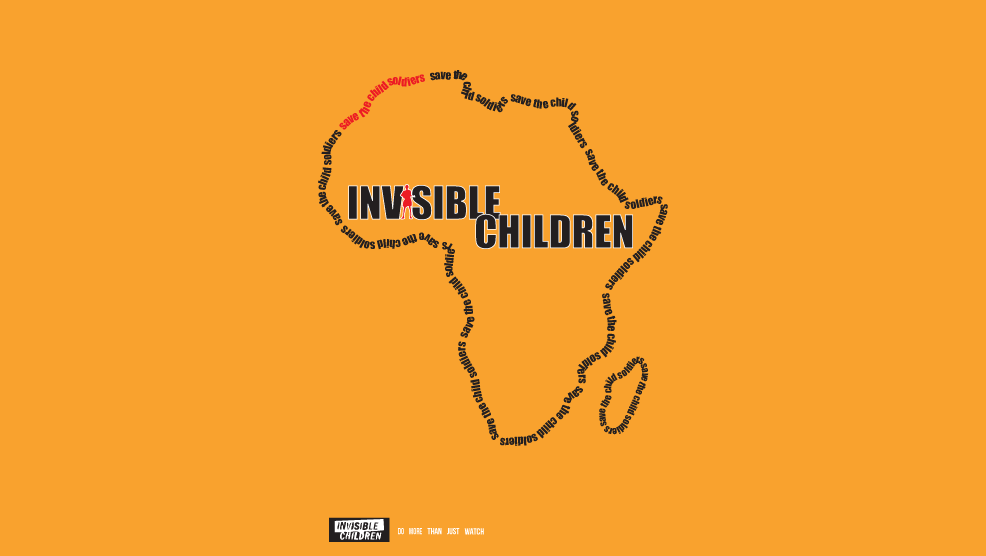
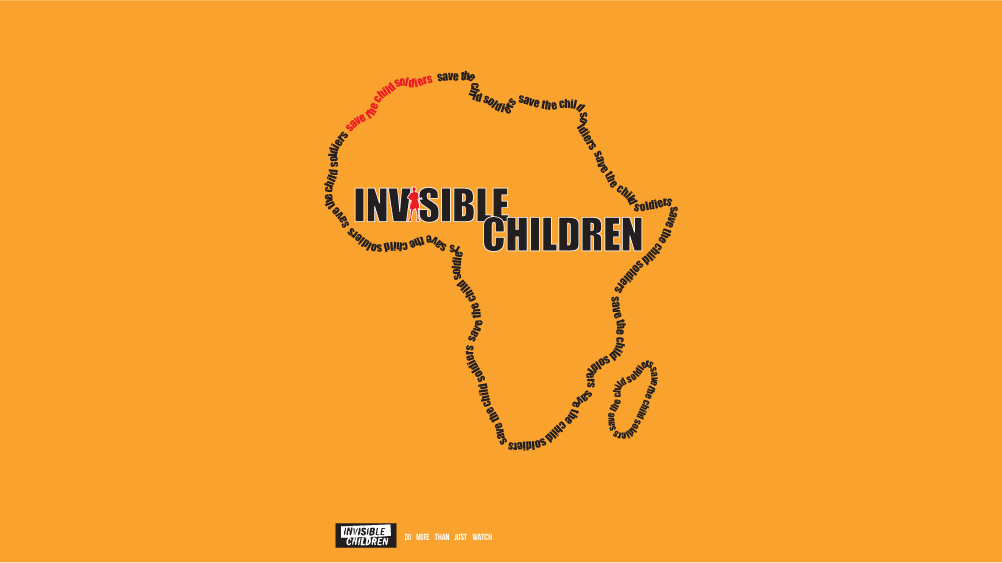
Enlarged main images to eliminate weird padding

diff --git a/portfolio/pavilionofliterature.html b/portfolio/pavilionofliterature.html
@@ -84,7 +84,7 @@
 					<div class="column2">
 						
 						<div class="images">
-							<img src="./img/pavilionofliterature_1.png" width="986" height="556" alt="image1"/>
+							<img src="./img/pavilionofliterature_1.png" width="1002" height="563" alt="image1"/>
 						</div>
 
 					</div>

diff --git a/portfolio/invisiblechildren.html b/portfolio/invisiblechildren.html
@@ -84,7 +84,7 @@
 					<div class="column2">
 						
 						<div class="images">
-							<img src="./img/invisiblechildren_1.png" width="986" height="556" alt="image1"/>
+							<img src="./img/invisiblechildren_1.png" width="1002" height="563" alt="image1"/>
 						</div>
 
 					</div>

diff --git a/portfolio/ysclogo.html b/portfolio/ysclogo.html
@@ -84,7 +84,7 @@
 					<div class="column2">
 						
 						<div class="images">
-							<img src="./img/ysclogo_1.png" width="986" height="556" alt="image1"/>
+							<img src="./img/ysclogo_1.png" width="1002" height="563" alt="image1"/>
 						</div>
 
 					</div>

diff --git a/portfolio/pouch.html b/portfolio/pouch.html
@@ -84,7 +84,7 @@
 					<div class="column2">
 						
 						<div class="images">
-							<img src="./img/pouch_1.png" width="986" height="556" alt="image1"/>
+							<img src="./img/pouch_1.png" width="1002" height="563" alt="image1"/>
 						</div>
 
 					</div>
